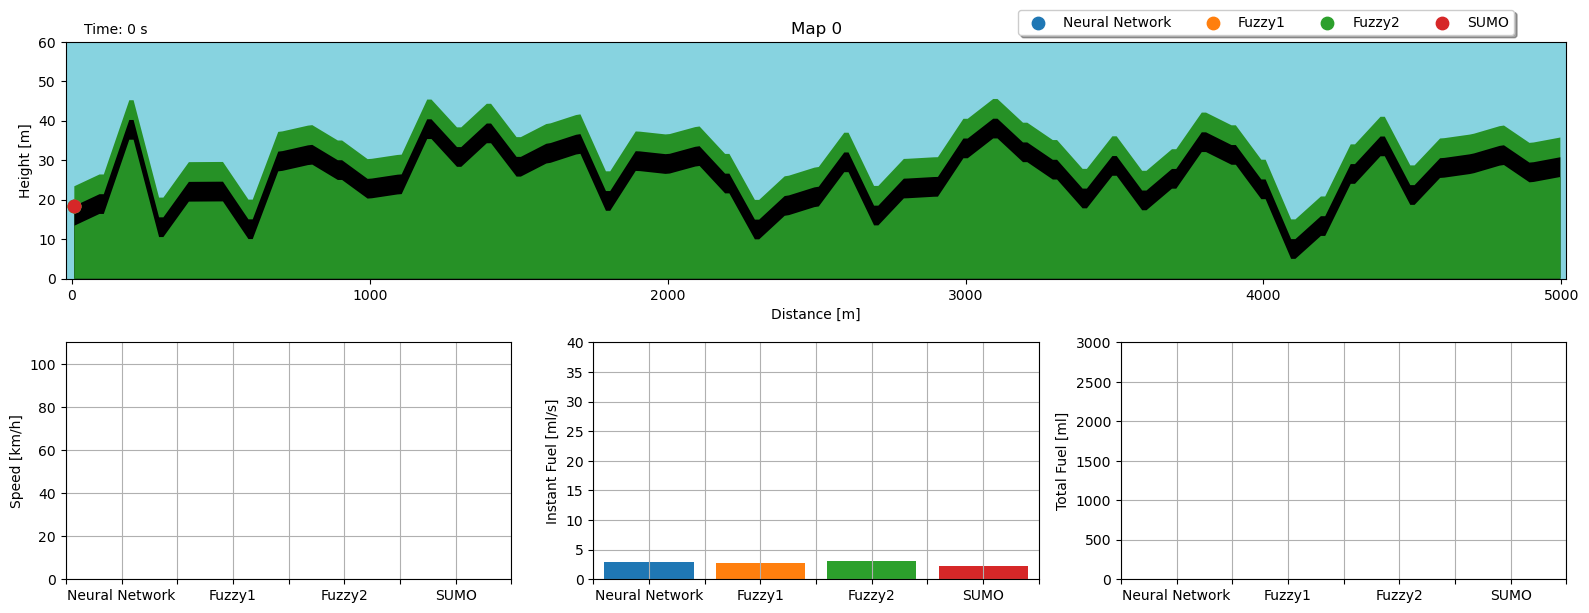
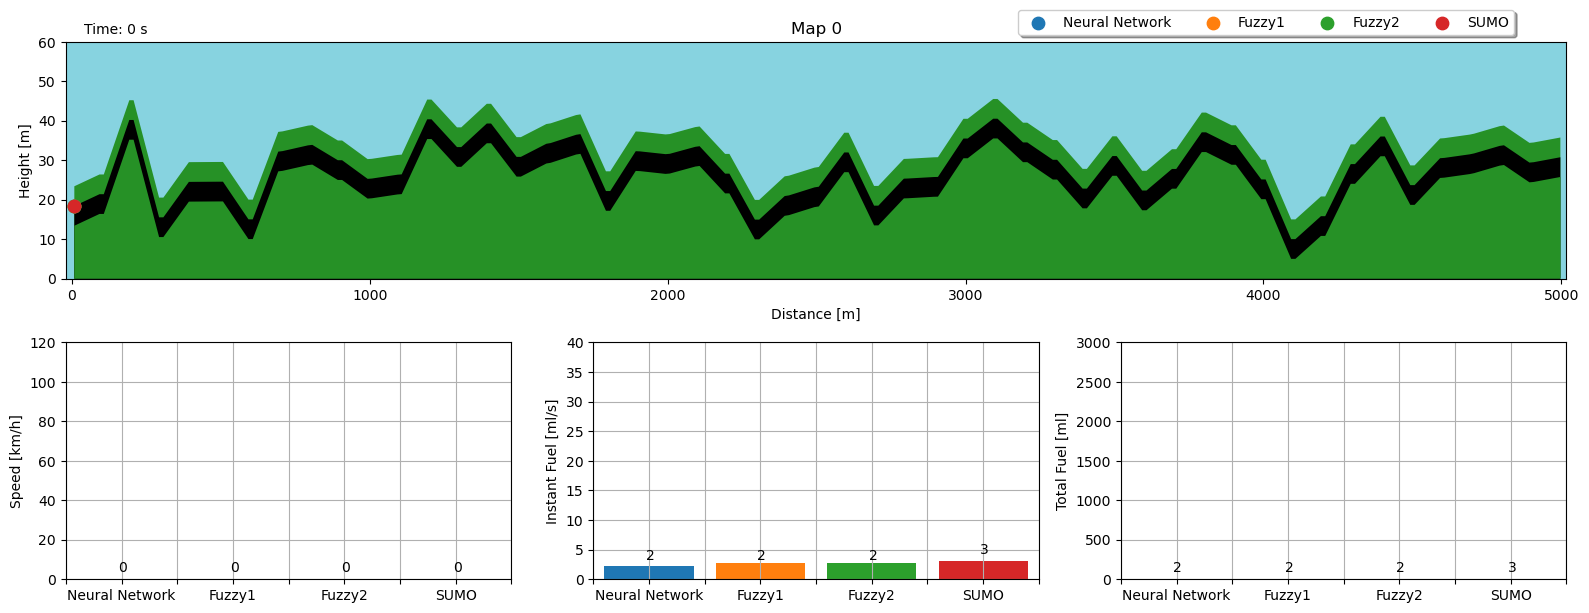
Correction error .gif ok

diff --git a/vid.py b/vid.py
@@ -159,38 +159,6 @@ def main():
 
             ax.text(40, 62, "Time: "+str(step)+" s", ha='left')
 
-            ax = fig.add_subplot(gs[1, 0])
-            # ax.set_xlabel("Approach")
-            ax.set_ylabel("Speed [km/h]")
-            ax.set_ylim(0,110)
-            ax.set_xticklabels(labels)
-            ax.set_xlim(0,4)
-            ax.grid()
-            ax.bar([0.5,1.5,2.5,3.5], [model_speed, fuzzy_speed, fuzzy2_speed, sumo_speed], color=[color1,color2,color3,color4])
-
-
-            ax = fig.add_subplot(gs[1, 1])
-            # ax.set_xlabel("Approach")
-            ax.set_ylabel("Instant Fuel [ml/s]")
-            ax.set_ylim(0,40)
-            ax.set_xticklabels(labels)
-            ax.set_xlim(0,4)
-            ax.grid()
-            ax.bar([0.5,1.5,2.5,3.5], [model_instant_fuel, fuzzy_instant_fuel, fuzzy2_instant_fuel, sumo_instant_fuel], color=[color1,color2,color3,color4])
-
-            ax = fig.add_subplot(gs[1, 2])
-            # ax.set_xlabel("Approach")
-            ax.set_ylabel("Total Fuel [ml]")
-            ax.set_ylim(0,3000)
-            ax.set_xticklabels(labels)
-            ax.set_xlim(0,4)
-            ax.grid()
-            # ax.bar([0.5,1.5,2.5,3.5], [model_total_fuel, fuzzy_total_fuel, fuzzy2_total_fuel, sumo_total_fuel], color=[color1,color2,color3,color4])
-            rects1 = ax.bar([0.5,1.5,2.5,3.5], model_total_fuel, color=color1, label='Neural Network')
-            rects2 = ax.bar([0.5,1.5,2.5,3.5], fuzzy_total_fuel, color=color2, label='Fuzzy1')
-            rects3 = ax.bar([0.5,1.5,2.5,3.5], fuzzy2_total_fuel, color=color3, label='Fuzzy2')
-            rects4 = ax.bar([0.5,1.5,2.5,3.5], sumo_total_fuel, color=color4, label='SUMO')
-     
             def autolabel(rects):
                 for rect in rects:
 
@@ -203,10 +171,45 @@ def main():
                                 ha='center', va='bottom', rotation=0,
                                 horizontalalignment='center', verticalalignment='center')
 
+            ax = fig.add_subplot(gs[1, 0])
+            # ax.set_xlabel("Approach")
+            ax.set_ylabel("Speed [km/h]")
+            ax.set_ylim(0,120)
+            ax.set_xticklabels(labels)
+            ax.set_xlim(0,4)
+            ax.grid()
+            rects1 = ax.bar([0.5,1.5,2.5,3.5], [model_speed, fuzzy_speed, fuzzy2_speed, sumo_speed], color=[color1,color2,color3,color4])
             autolabel(rects1)
+          
+
+            ax = fig.add_subplot(gs[1, 1])
+            # ax.set_xlabel("Approach")
+            ax.set_ylabel("Instant Fuel [ml/s]")
+            ax.set_ylim(0,40)
+            ax.set_xticklabels(labels)
+            ax.set_xlim(0,4)
+            ax.grid()
+            rects2 = ax.bar([0.5,1.5,2.5,3.5], [model_instant_fuel, fuzzy_instant_fuel, fuzzy2_instant_fuel, sumo_instant_fuel], color=[color1,color2,color3,color4])
             autolabel(rects2)
+
+            ax = fig.add_subplot(gs[1, 2])
+            # ax.set_xlabel("Approach")
+            ax.set_ylabel("Total Fuel [ml]")
+            ax.set_ylim(0,3000)
+            ax.set_xticklabels(labels)
+            ax.set_xlim(0,4)
+            ax.grid()
+            rects3 = ax.bar([0.5,1.5,2.5,3.5], [model_total_fuel, fuzzy_total_fuel, fuzzy2_total_fuel, sumo_total_fuel], color=[color1,color2,color3,color4])
+            # ax.bar([0.5,1.5,2.5,3.5], model_total_fuel, color=color1, label='Neural Network')
+            # ax.bar([0.5,1.5,2.5,3.5], fuzzy_total_fuel, color=color2, label='Fuzzy1')
+            # ax.bar([0.5,1.5,2.5,3.5], fuzzy2_total_fuel, color=color3, label='Fuzzy2')
+            # ax.bar([0.5,1.5,2.5,3.5], sumo_total_fuel, color=color4, label='SUMO')
+     
+
+
+           
             autolabel(rects3)
-            autolabel(rects4)
+            # autolabel(rects4)
 
             
 
